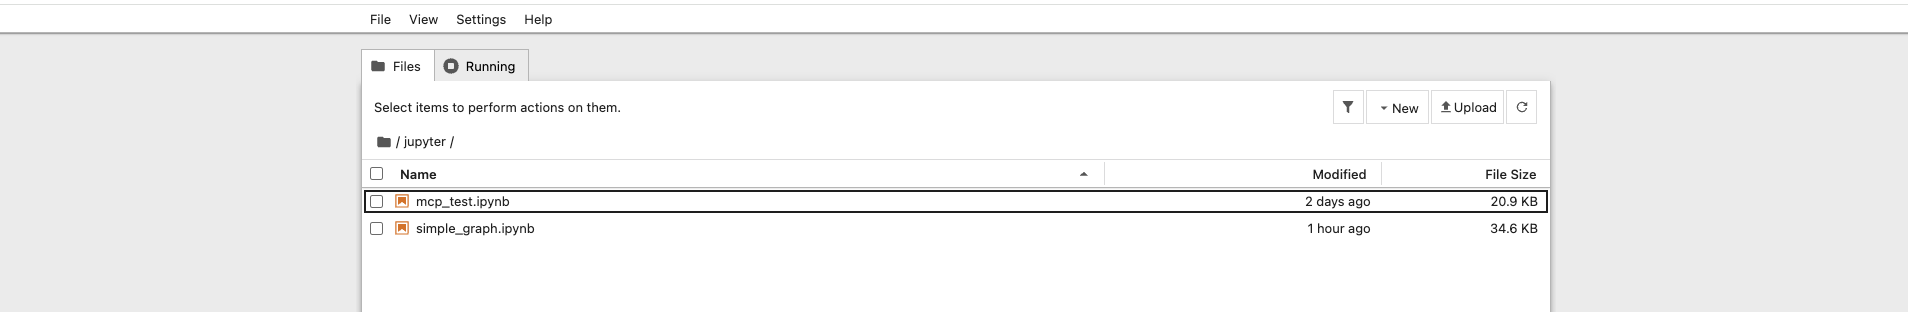
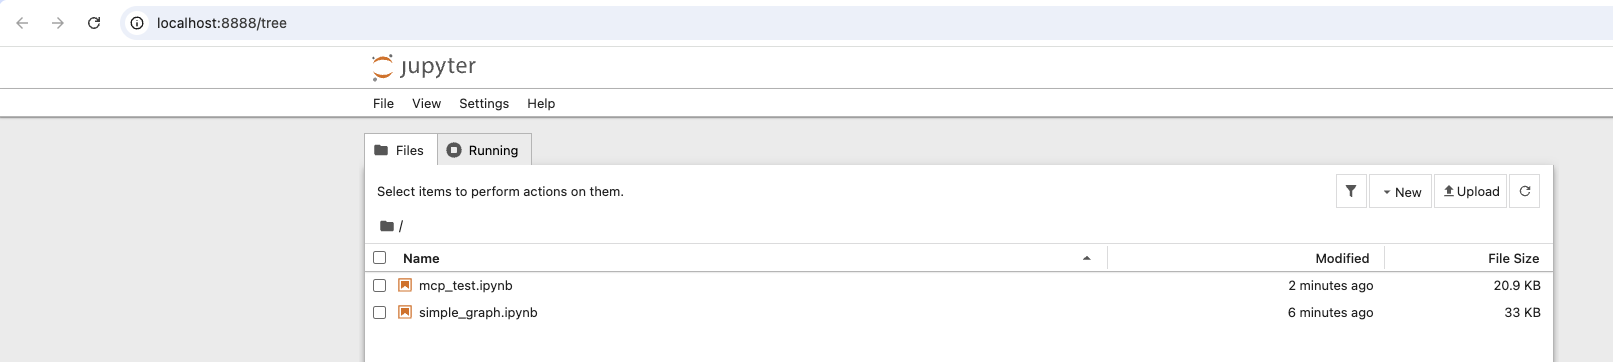
cp

diff --git a/mcp/src/test/test_mcp_server.py b/mcp/src/test/test_mcp_server.py
@@ -10,7 +10,7 @@ class TestMcpServer(BaseAsyncTestCase):
     async def asyncSetUp(self):
         await super().asyncSetUp()
         logging.info('Test setup')
-        self._llm = ChatOllama(model="qwen3:8b", base_url=OLLAMA_URL, reasoning=True, temperature=0)
+        self._llm = ChatOllama(model="gemma4:latest", base_url=OLLAMA_URL, reasoning=True, temperature=0)
         self._client = MultiServerMCPClient(
             {
                 "Demo": {

diff --git a/mcp/README.md b/mcp/README.md
@@ -62,7 +62,7 @@ make l_run_mcp_server
 
 ---
 
-- (OPTIONAL) - If you want to test the mcp server with Jupyter
+- (OPTIONAL) - If you want to test the MCP server with Jupyter
 - The Jupyter notebook is helpful when learning how to interact with the MCP server. 
    - See [./src/jupyter/mcp_test.ipynb](./src/jupyter/mcp_test.ipynb) and [./src/jupyter/simple_graph.ipynb](./src/jupyter/simple_graph.ipynb) for details on how to interact with the MCP server.
 ~~~
@@ -70,19 +70,18 @@ make l_run_mcp_server
 cd <project root>/mcp/assemble
 make l_run_jupyter
 ~~~
-- Notebooks will be located in the `./jupyter` directory
+- Notebooks will be located in the `./` directory
 
 ![jupyter](./images/jupyter.png "jupyter")
 
 ---
 
 - (OPTIONAL) - If you want to run the unit tests,
-- Note that the MCP server must be running and the datbase must exist for the tests to pass
+- Note that the MCP server must be running and the database must exist for the tests to pass
 ~~~
 <new terminal window>
-conda activate mcp-server
-cd ./util_scripts
-sh run_unit_tests.sh
+cd <project root>/mcp/assemble
+make l_run_mcp_tests
 ~~~
 - When running the unit tests, your terminal should look like this:
 ![unittest](./images/unittest.png "unittest")